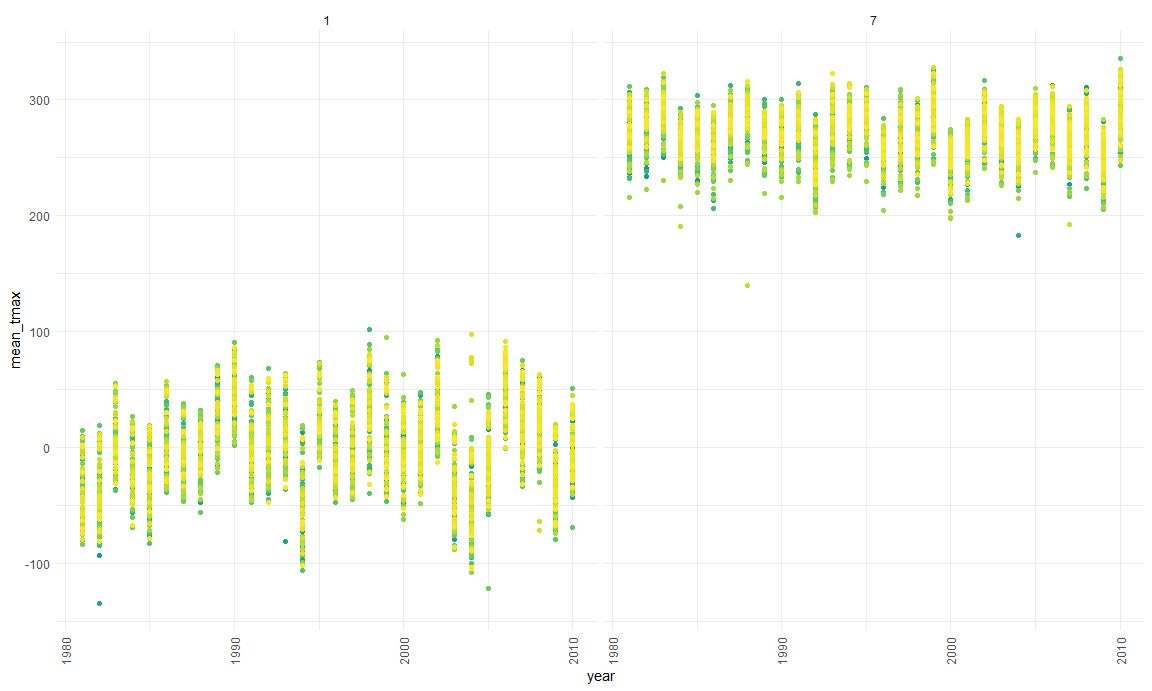
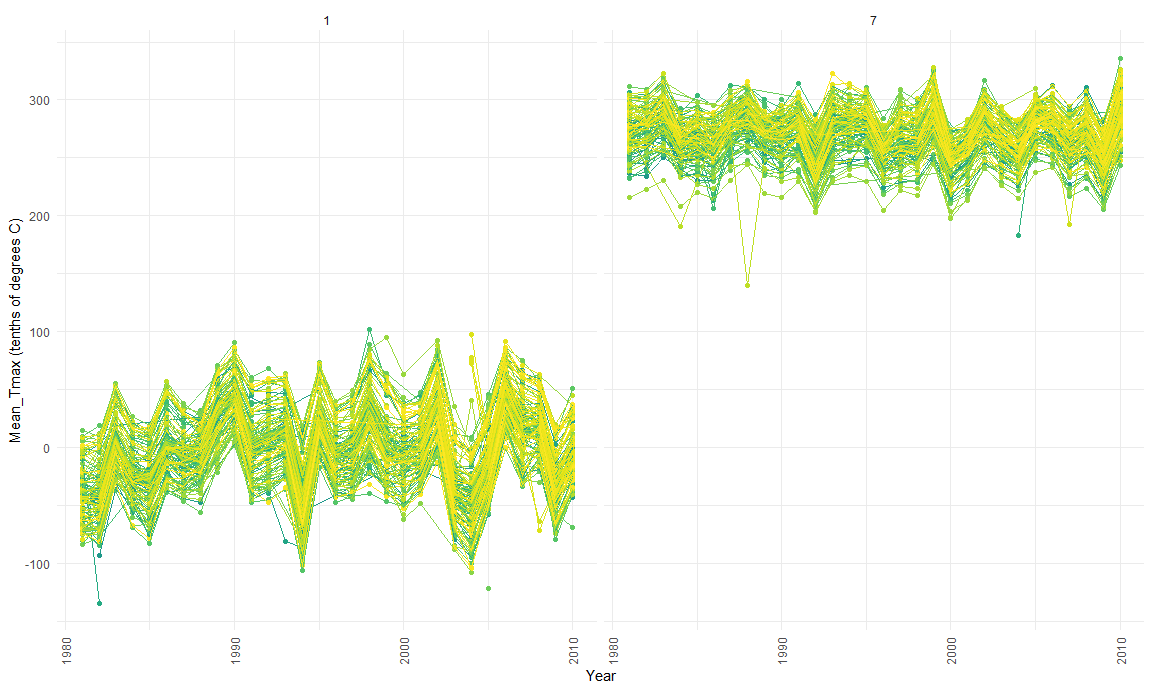
Combine two different plots and amend some features of previous plots

diff --git a/p8105_hw3_ww2579.md b/p8105_hw3_ww2579.md
@@ -7,14 +7,14 @@ Wenzhao Wu
 library(tidyverse)
 ```
 
-    ## -- Attaching packages -------------------------- tidyverse 1.3.0 --
+    ## -- Attaching packages --------------- tidyverse 1.3.0 --
 
     ## v ggplot2 3.3.2     v purrr   0.3.4
     ## v tibble  3.0.3     v dplyr   1.0.2
     ## v tidyr   1.1.2     v stringr 1.4.0
     ## v readr   1.3.1     v forcats 0.5.0
 
-    ## -- Conflicts ----------------------------- tidyverse_conflicts() --
+    ## -- Conflicts ------------------ tidyverse_conflicts() --
     ## x dplyr::filter() masks stats::filter()
     ## x dplyr::lag()    masks stats::lag()
 
@@ -22,6 +22,7 @@ library(tidyverse)
 library(p8105.datasets)
 library(readxl)
 data("ny_noaa")
+library(patchwork)
 
 knitr::opts_chunk$set(
   fig.width = 12,
@@ -260,16 +261,28 @@ Make a single-panel plot.
 ``` r
 plot_accel = 
   tidied_df %>%
-  ggplot(aes(x = activity_min, y = activity_counts, group = day_id, color = day_id),alpha = 0.5) +
+  ggplot(aes(x = activity_min, y = activity_counts, group = day_id, color = day_id),alpha = 0.1) +
   geom_line() +
+  geom_smooth(SE = FALSE) +
   scale_y_continuous(
     trans = "sqrt") +
   theme(axis.text.x = element_text(angle = 90, vjust = 0.5, hjust = 1))
+```
 
+    ## Warning: Ignoring unknown parameters: SE
+
+``` r
 plot_accel
 ```
 
+    ## `geom_smooth()` using method = 'gam' and formula 'y ~ s(x, bs = "cs")'
+
+    ## Warning: Computation failed in `stat_smooth()`:
+    ## NA/NaN/Inf in foreign function call (arg 3)
+
 <img src="p8105_hw3_ww2579_files/figure-gfm/unnamed-chunk-8-1.png" width="90%" />
+
+Conclusions: From the graph above we can see that
 
 ## Problem 3
 
@@ -334,8 +347,12 @@ jj_plot = ny_noaa %>%
     mean_tmax = (mean(tmax,na.rm = TRUE))) %>%
   ggplot(aes(x = year, y = mean_tmax, group = id, color = id)) +
   geom_point() +
+  geom_line() +
   geom_smooth(se = F) +
   facet_grid(~month) +
+  labs(
+    x = "Year",
+    y = "Mean_Tmax (tenths of degrees C)") +
   theme(axis.text.x = element_text(angle = 90, vjust = 0.5, hjust = 1),
         legend.position = "none")
 ```
@@ -489,4 +506,54 @@ jj_plot
 
     ## Warning: Removed 5970 rows containing missing values (geom_point).
 
+    ## Warning: Removed 5640 row(s) containing missing values (geom_path).
+
 <img src="p8105_hw3_ww2579_files/figure-gfm/unnamed-chunk-11-1.png" width="90%" />
+
+Interpretations:
+
+Make a two-panel plot.
+
+``` r
+mean_temp_plot = ny_noaa %>%
+  ggplot(aes(x = tmin, y = tmax)) +
+  geom_point() +
+  geom_hex() +
+  labs(
+    title = "Max_Temp vs Min_Temp",
+    x = "Min_Temp (tenths of degrees C)",
+    y = "Max_Temp (tenths of degrees C)")
+
+mean_temp_plot
+```
+
+    ## Warning: Removed 1136276 rows containing non-finite values (stat_binhex).
+
+    ## Warning: Removed 1136276 rows containing missing values (geom_point).
+
+<img src="p8105_hw3_ww2579_files/figure-gfm/unnamed-chunk-12-1.png" width="90%" />
+
+``` r
+snow_plot = 
+  ny_noaa %>%
+  filter(snow > 0  & snow < 100 ) %>%
+  ggplot(aes(x = year, y = snow, group = year, colour = year)) +
+  geom_boxplot(alpha = 0.4) +
+  labs(x = "Year", y = "Snow (mm)", title = "Distribution of Snowfall by Year")
+
+snow_plot
+```
+
+<img src="p8105_hw3_ww2579_files/figure-gfm/unnamed-chunk-12-2.png" width="90%" />
+
+``` r
+mean_temp_plot+snow_plot
+```
+
+    ## Warning: Removed 1136276 rows containing non-finite values (stat_binhex).
+    
+    ## Warning: Removed 1136276 rows containing missing values (geom_point).
+
+<img src="p8105_hw3_ww2579_files/figure-gfm/unnamed-chunk-12-3.png" width="90%" />
+
+Interpretations:
